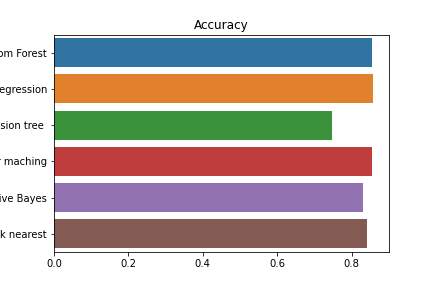
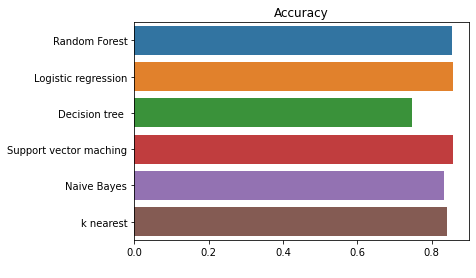
more visuals

diff --git a/code/modeling 1.0.py b/code/modeling 1.0.py
@@ -24,23 +24,18 @@ from mlxtend.classifier      import EnsembleVoteClassifier
 from sklearn.ensemble        import AdaBoostClassifier, GradientBoostingClassifier, StackingClassifier
 from sklearn.naive_bayes     import GaussianNB
 from sklearn.neighbors       import KNeighborsClassifier
-from sklearn.model_selection import GridSearchCV
-
+from sklearn.model_selection import GridSearchCV, RepeatedStratifiedKFold, cross_val_score
+from sklearn.utils           import compute_class_weight
 
 data_path = r'C:\Users\jeron\OneDrive\Desktop\903group\data\framingham.csv'
 
 data = pd.read_csv(data_path)
-print(len(data))
-print(data['TenYearCHD'].value_counts())
 data_heart = data.copy()
 data_heart.dropna(inplace=True)
-print(len(data_heart))
-print(data_heart['TenYearCHD'].value_counts())
-
-data.drop('currentSmoker',axis=1, inplace=True)
+data.drop(columns=['currentSmoker', 'education'],axis=1, inplace=True)
 
 output = 'TenYearCHD'
-features = ['male', 'age', 'education',
+features = ['male', 'age',
         'cigsPerDay', 'BPMeds', 'prevalentStroke',
         'prevalentHyp', 'diabetes', 'totChol', 'sysBP',
         'diaBP', 'BMI', 'heartRate', 'glucose']
@@ -50,13 +45,10 @@ not_standard = ['male', 'BPMeds', 'prevalentStroke',
 need_standard = [x for x in features if x not in not_standard]
 features_to_scale = data_heart[need_standard]
 
-scaler =StandardScaler()
-normalize = MinMaxScaler()
-
-features_scaled = scaler.fit_transform(features_to_scale.values)
+normalize =MinMaxScaler(feature_range=(0,1))
+features_scaled = normalize.fit_transform(features_to_scale.values)
 
 data_heart[need_standard] = features_scaled
-
 X = data_heart[features]
 y = data_heart[output]
 #boruta py recommends using pruned forest with a depth between 3-7
@@ -91,41 +83,40 @@ def plot_conf(model):
 
 ####################################################################################################
 
-over = SMOTE(sampling_strategy=0.2)
-under = RandomUnderSampler(sampling_strategy=0.8)
-
-X_train, X_test, y_train, y_test = train_test_split(X, y, test_size=0.35, stratify=y)
-X_train, y_train = over.fit_resample(X_train, y_train)
-X_train,y_train = under.fit_resample(X_train, y_train)
-
+X_train, X_test, y_train, y_test = train_test_split(X, y, test_size=0.2)
 
 results_acc = {}
 results_f1  = {}
 ######################################logistic regression###############################################################
 ###paremeter tuning for logistic regression
 params = [
-        {'penalty': ['l1'],'C': np.logspace(-4, 4, 20),
-        'solver': [ 'liblinear','saga'],
+        {'penalty': ['l1'],'C': np.logspace(-4, 4, 50),
+        'solver': [ 'liblinear','saga'],'class_weight':['balanced'],
         'max_iter':[100, 1000, 1500,5000]},
-        {'penalty': ['l2'],'C': np.logspace(-4, 4, 20),
-         'solver': ['newton-cg','sag','lbfgs'],
+        {'penalty': ['l2'],'C': np.logspace(-4, 4, 50),
+         'solver': ['newton-cg','sag','lbfgs'],'class_weight':['balanced'],
          'max_iter':[100, 1000, 1500,5000]},
-        {'penalty': ['elasticnet'],'C': np.logspace(-4, 4, 20),
+        {'penalty': ['elasticnet'],'class_weight':['balanced'],'C': np.logspace(-4, 4, 50),
          'solver': ['saga'], 'max_iter':[100, 1000, 1500,5000],
          'l1_ratio':[0.5]}]
 
+cv = RepeatedStratifiedKFold(n_splits=10, n_repeats=3, random_state=42)
 log = LogisticRegression()
-grid = GridSearchCV(log, param_grid=params, cv= 10, verbose=2, n_jobs= -1)
-b = grid.fit(X_train, y_train)
-print(b.best_estimator_)
+grid = GridSearchCV(log, params, cv=cv)
+grid.fit(X, y)
+print(grid.best_estimator_)
 
-logmodel = LogisticRegression(C=11.288378916846883, penalty='l1', solver='saga')
-logmodel.fit(X_train, y_train)
+weights = {0:0.5, 1:0.95}
+log = LogisticRegression(C=0.0011, class_weight='balanced', penalty='l2',
+                   solver='lbfgs')
+log.fit(X_train,y_train)
+print(log.predict(X_test))
+print(classification_report(y_train, log.predict(X_train)))
+cv = RepeatedStratifiedKFold(n_splits=10, n_repeats=3, random_state=42)
+scores = cross_val_score(log, X_test, y_test, scoring='recall', cv=cv, n_jobs=-1)
 
-print(classification_report(y_test, logmodel.predict(X_test)))
-f1scor   = metrics.f1_score(y_test, logmodel.predict(X_test))
-accscore = logmodel.score(X_test, y_test)
-print(f1scor, accscore)
+print(scores.mean())
+
 
 results_acc['logmodel'] = accscore
 results_f1['logmodel']  = f1scor
@@ -157,10 +148,10 @@ results_acc['svc'] = accscorsv
 results_f1['svc']  = f1scorsv
 #########################Boosting#################################
 
-svc1 = SVC(kernel='linear', probability=True, C=100, gamma=1)
-ada = AdaBoostClassifier(n_estimators=5, base_estimator=svc1)
-grad_boost = GradientBoostingClassifier(n_estimators=10)
-xgb = XGBClassifier(max_depth=5, learning_rate=0.001, use_label_encoder=False)
+log = LogisticRegression(solver='lbfgs', class_weight='balanced')
+ada = AdaBoostClassifier(n_estimators=5, base_estimator=log)
+grad_boost = GradientBoostingClassifier(n_estimators=100)
+xgb = XGBClassifier(max_depth=8, learning_rate=0.001, use_label_encoder=False)
 
 ensemble = EnsembleVoteClassifier(clfs = [ada, grad_boost, xgb], voting='hard')
 
